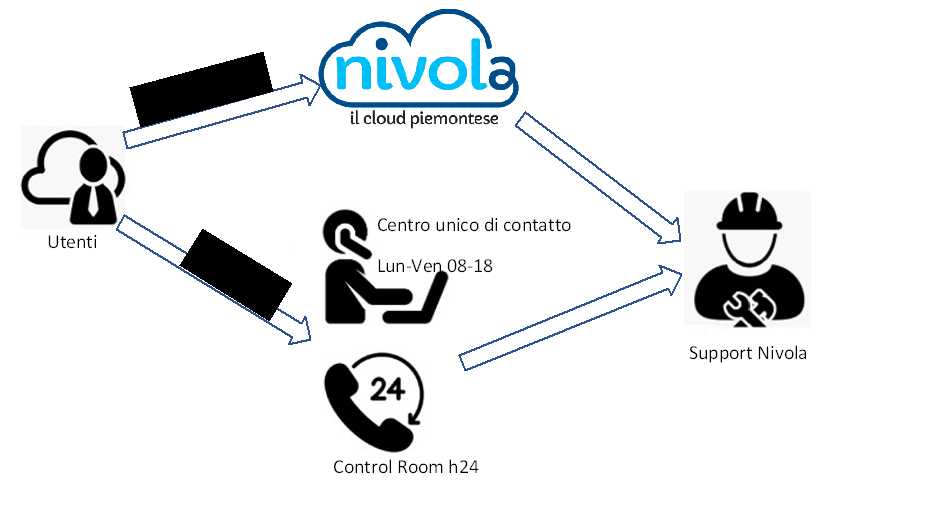
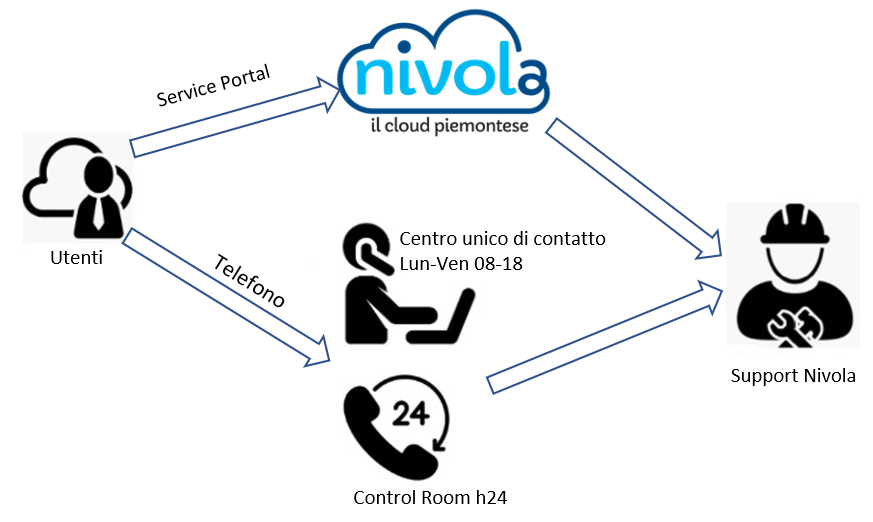
230331commit.1

Changed region(s): [[0.0, 0.0, 0.9897, 0.9808]]

diff --git a/docs/Come_fare_per/90.0_Attivare_il_supporto.rst b/docs/Come_fare_per/90.0_Attivare_il_supporto.rst
@@ -7,11 +7,11 @@ Le attività di assistenza relative al Service Portal Nivola e a tutti i servizi
 degli strumenti adottati per l’erogazione dei servizi di assistenza.
 L’attività di assistenza all’interno del Team di Supporto Nivola è articolata su uno schema di supporto basato su tre livelli:
 
-1.	Developer: compilazione form su SP
+1.	Developer: compilazione Ticket su SP
 
-2.	Standard: compilazione form su SP, contatto telefonico
+2.	Standard: compilazione Ticket su SP, contatto telefonico
 
-3.	Premium: compilazione form su SP, contatto telefonico
+3.	Premium: compilazione Ticket su SP, contatto telefonico
 
 Per quanto riguarda la copertura oraria e Livelli di Servizio fare
 riferimento all’\ `Allegato tecnico del Catalogo Servizi Nivola. <http://intranet.csi.it/monitoraggio/dwd/2019/Catalogo-e-Listino-CSI-2019-04-Allegato-tecnico-Servizi-Nivola.pdf>`__
@@ -61,6 +61,6 @@ l’istanza di produzione purchè appartenenti ad Account differenti.
 
 Il Supporto è attivabile dagli utenti esterni sui seguenti canali
 
-Service Portal: form su Service Portal
+Service Portal: Sezione Assistenza su Service Portal
 
-**Telefono** Centro Unico di Contatto: +39 011 0824221
+**Telefono** Centro Unico di Contatto: +39 011 082422

diff --git a/docs/Come_fare_per/05.15_Creare_Utente_fuori_SP.rst b/docs/Come_fare_per/05.15_Creare_Utente_fuori_SP.rst
@@ -34,8 +34,10 @@ Indipendentemente dal sistema di autenticazione scelto dall’utente, il Nivola 
 
 **Accreditamento utente su nuovo account**
 
-Se non richiesto all’atto della creazione dell’account Nivola per il primo accreditamento di un utente Master può essere richiesta per il referente del servizio 
-secondo i canali a disposizione, indicando il nome utente precedentemente richiesto e **Organizzazione, Divisione, Account**  a cui i richiede l’accreditamento.
+Se eventualmente non esiste alcun account Master associato all'account Nivola, in quanto eventualmente non indicato al momento della richiesta di creazione, 
+per il primo accreditamento di un utente Master è necessario contattare il servizio di assistenza secondo i canali a disposizione richiedendone a creazione 
+a cura del referente di progetto,  indicando il nome e cognome utente  e Codice Fiscale usato in fase di registrazione e **Organizzazione, Divisione, Account** 
+a cui si richiede l’accreditamento.
 
 
 I successivi accreditamenti possono essere effettuati in autonomia L’utente sarà accreditato nel livello organizzativo e nel ruolo indicati.
